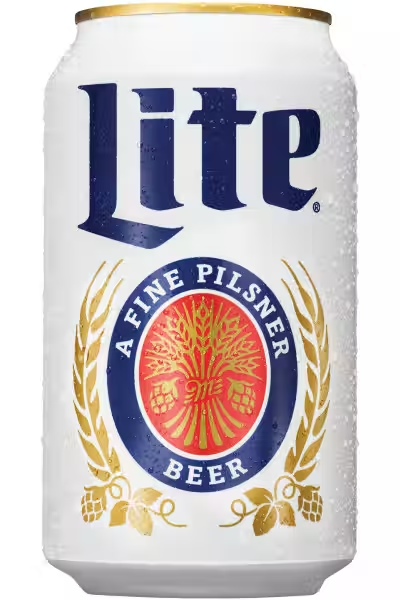
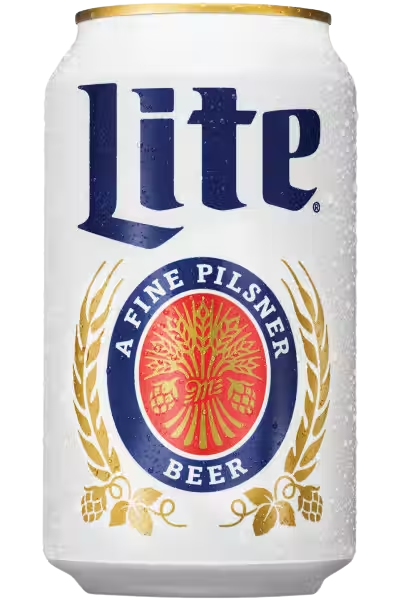
images update to png transparent background

diff --git a/src/components/textComponent/index.tsx b/src/components/textComponent/index.tsx
@@ -1,0 +1,40 @@
+import { useState, useRef, useEffect } from 'react';
+import { NextPage } from 'next';
+import { TextProps } from "@/types";
+import styles from './index.module.css';
+
+const TextComponent: NextPage<TextProps> = ({ text, maxHeight }) => {
+    const [showMore, setShowMore] = useState<boolean>(false);
+    const textRef = useRef<HTMLParagraphElement>(null);
+
+    const evaluateHeight = () => {
+        if (textRef.current?.clientHeight && textRef.current?.clientHeight < maxHeight ) return true;
+        return false;
+    };
+
+    useEffect(() => {
+        
+        const readMore = evaluateHeight();
+
+        setShowMore(readMore);
+
+    }, [textRef.current?.clientHeight]);
+  
+    return (
+      <div className={styles.container}>
+        <span className={styles.mainText} style={{ maxHeight: showMore ? "calc(4 * 1.2em)" : "none" }} ref={textRef}>
+            {text}
+            { showMore ? 
+                <span style={{ top: "calc(3 * 1.2em)" }} className={styles.button} onClick={() => setShowMore(false)}>
+                    Read More
+                </span> 
+            : 
+                <span style={{ bottom: 0 }} className={styles.button} onClick={() => setShowMore(true)}>
+                    Read Less
+                </span> }
+        </span>
+      </div>
+    );
+}
+
+export default TextComponent;
